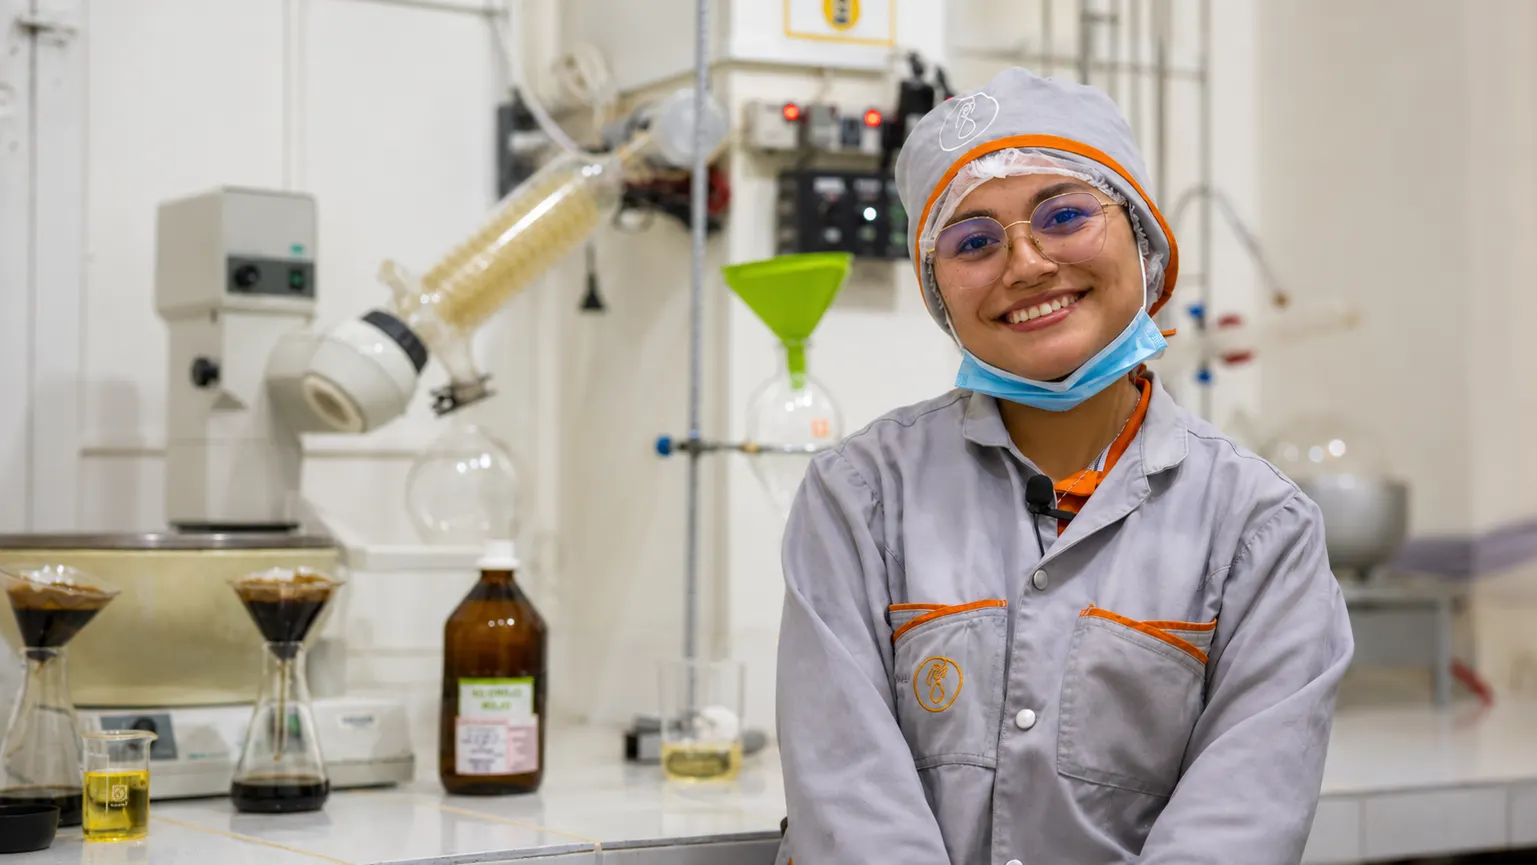
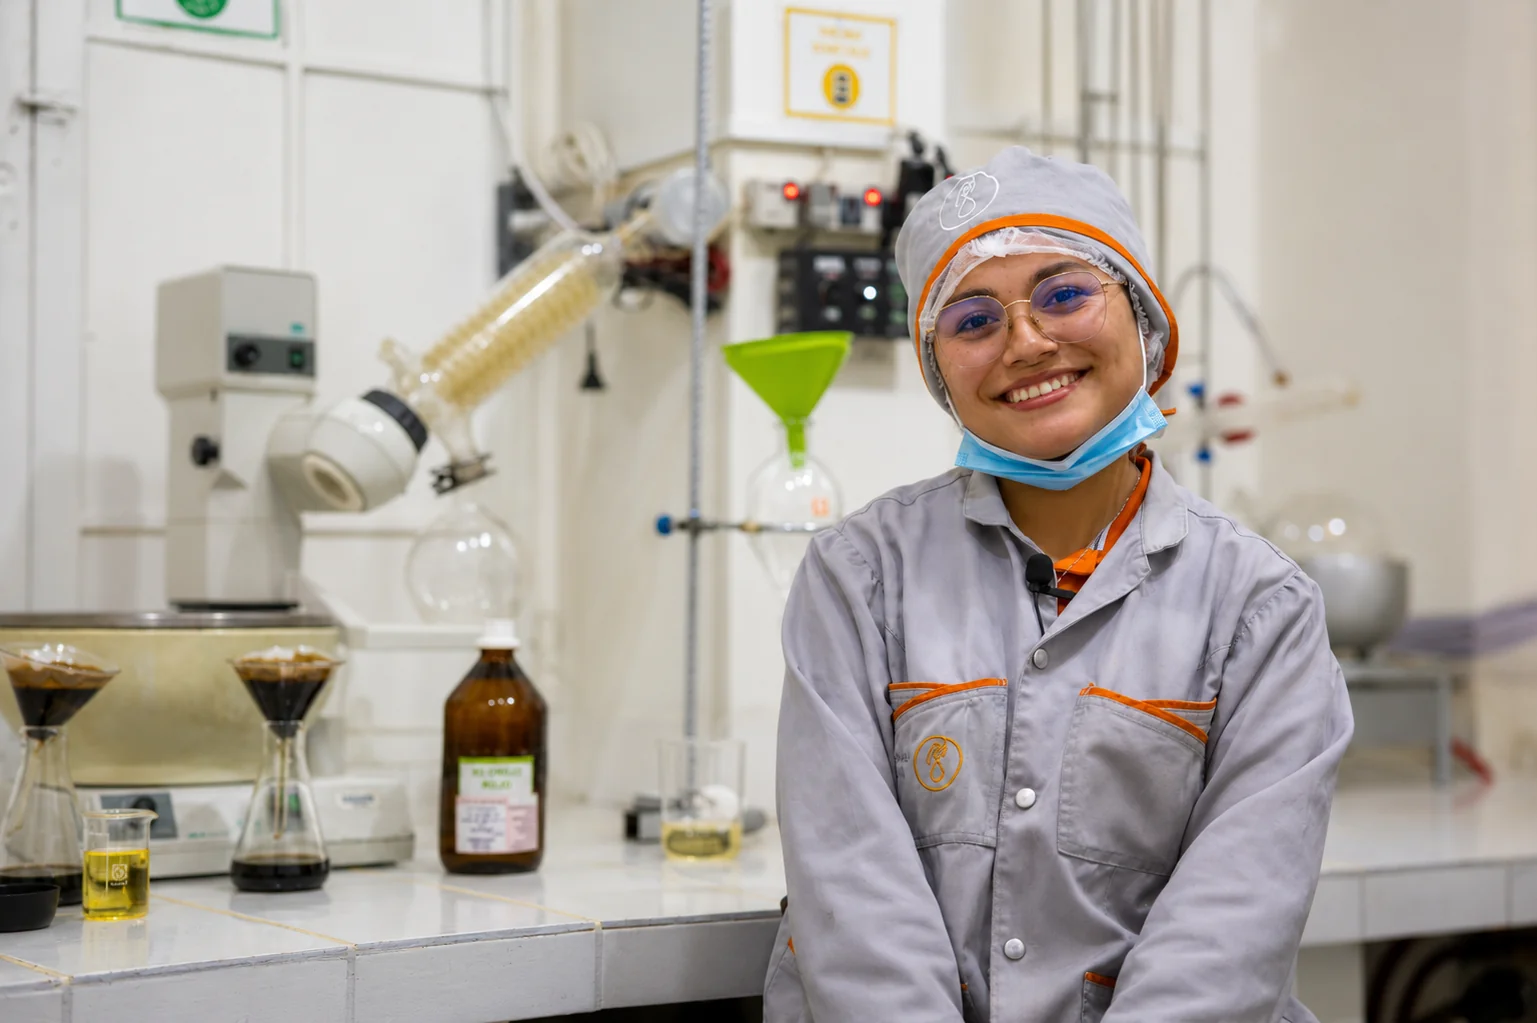
feat(web): nuevas imagenes del hero y limpieza de las que ya no se usan
Las 3 fotos del carrusel se reemplazan por las que envio el cliente
(SuperStar-Banner1/2/3). Se exportan a WebP q85 a ancho nativo: 537 KB
a 312 KB en total.

- banner-limpieza y banner-reciclaje son fotos nuevas
- banner-laboratorio es la misma foto de antes, pero re-exportada desde
  el master: la version anterior estaba sobrecomprimida (59 KB) y ahora
  trae 158 px mas de alto, lo que da mas margen de encuadre en movil
- overlay recalibrado por foto segun su luminancia: limpieza necesita
  mas (pared casi blanca a la izquierda), reciclaje menos (ya es oscura)
- se borra el comentario que decia que la foto del laboratorio estaba
  espejada: el archivo nuevo ya viene en la orientacion correcta

Se eliminan banner-agricultura, banner-energia y los 3 hero-*.webp que
habian quedado huerfanos del hero anterior (1.47 MB).

No se toco ningun texto ni bloque de contenido del carrusel.

diff --git a/apps/web/src/app/(public)/_components/hero-carousel.tsx b/apps/web/src/app/(public)/_components/hero-carousel.tsx
@@ -91,12 +91,15 @@ interface Slide {
 
 const slides: Slide[] = [
   {
-    image: "/images/banner-agricultura.webp",
-    alt: "Productora boliviana sonriendo junto a sacos de papa recien cosechada en el campo",
-    // la cara queda en la parte alta de la foto: subimos el anclaje para no
-    // cortarla. Movil centrado; desktop pegado arriba a la derecha.
-    objectPosition: "object-center md:object-[100%_1%]",
-    overlay: [0.92, 0.72, 0.45],
+    image: "/images/banner-limpieza.webp",
+    alt: "Dos trabajadoras bolivianas de una empresa de limpieza saludando a la cámara",
+    // las dos protagonistas ocupan la mitad derecha; en movil solo entra un 26%
+    // del ancho, asi que anclamos en ellas para no cortarlas. En escritorio la
+    // foto tiene la misma proporcion que la pantalla y se ve completa.
+    objectPosition: "object-[64%_center] md:object-right",
+    // la pared de la izquierda es casi blanca (luminancia 197, la mas clara del
+    // set): el overlay va mas fuerte que en las otras para sostener el texto
+    overlay: [0.95, 0.78, 0.5],
     eyebrow: "Beneficios del programa",
     title: (
       <>
@@ -128,14 +131,14 @@ const slides: Slide[] = [
     cta: { label: "Postularme ahora", href: "/auth/registro" },
   },
   {
-    // la foto original tiene a la protagonista a la izquierda, justo donde va el
-    // texto. Se guarda espejada para que quede a la derecha, como las otras dos
-    image: "/images/banner-laboratorio.webp",
-    alt: "Quimica boliviana sonriendo en el laboratorio de su empresa, rodeada de equipos de destilacion",
-    // su cara esta arriba a la derecha: en movil subimos el anclaje para no
-    // cortarla; en desktop object-right ya la muestra bien.
-    objectPosition: "object-[58%_5%] md:object-right",
-    overlay: [0.92, 0.7, 0.4],
+    image: "/images/banner-reciclaje.webp",
+    alt: "Trabajadora boliviana empacando láminas recicladas en la planta de su empresa",
+    // la protagonista esta en el centro-izquierda: anclamos a la derecha para
+    // alejarla del bloque de texto. En movil object-center ya la encuadra bien.
+    objectPosition: "object-center md:object-[70%_center]",
+    // escena industrial oscura de por si (luminancia 82/107/62): con el overlay
+    // de las otras quedaria una mancha plana, por eso va mas suave
+    overlay: [0.86, 0.62, 0.3],
     eyebrow: "Convocatoria abierta",
     title: (
       <>
@@ -154,9 +157,13 @@ const slides: Slide[] = [
     cta: { label: "Postular ahora", href: "/auth/registro" },
   },
   {
-    image: "/images/banner-energia.webp",
-    alt: "Pareja aymara sosteniendo paneles solares y un equipo de energia limpia frente a su casa",
-    overlay: [0.94, 0.76, 0.5],
+    image: "/images/banner-laboratorio.webp",
+    alt: "Química boliviana sonriendo en el laboratorio de su empresa, rodeada de equipos de destilación",
+    // la foto es mas alta que las otras (1537x1023), asi que sobra recorte
+    // vertical: bajamos el anclaje para centrar la escena y en movil lo corremos
+    // a la derecha porque su cara queda al filo del recorte
+    objectPosition: "object-[58%_35%] md:object-[right_40%]",
+    overlay: [0.94, 0.76, 0.48],
     eyebrow: "Casos de éxito",
     title: (
       <>
